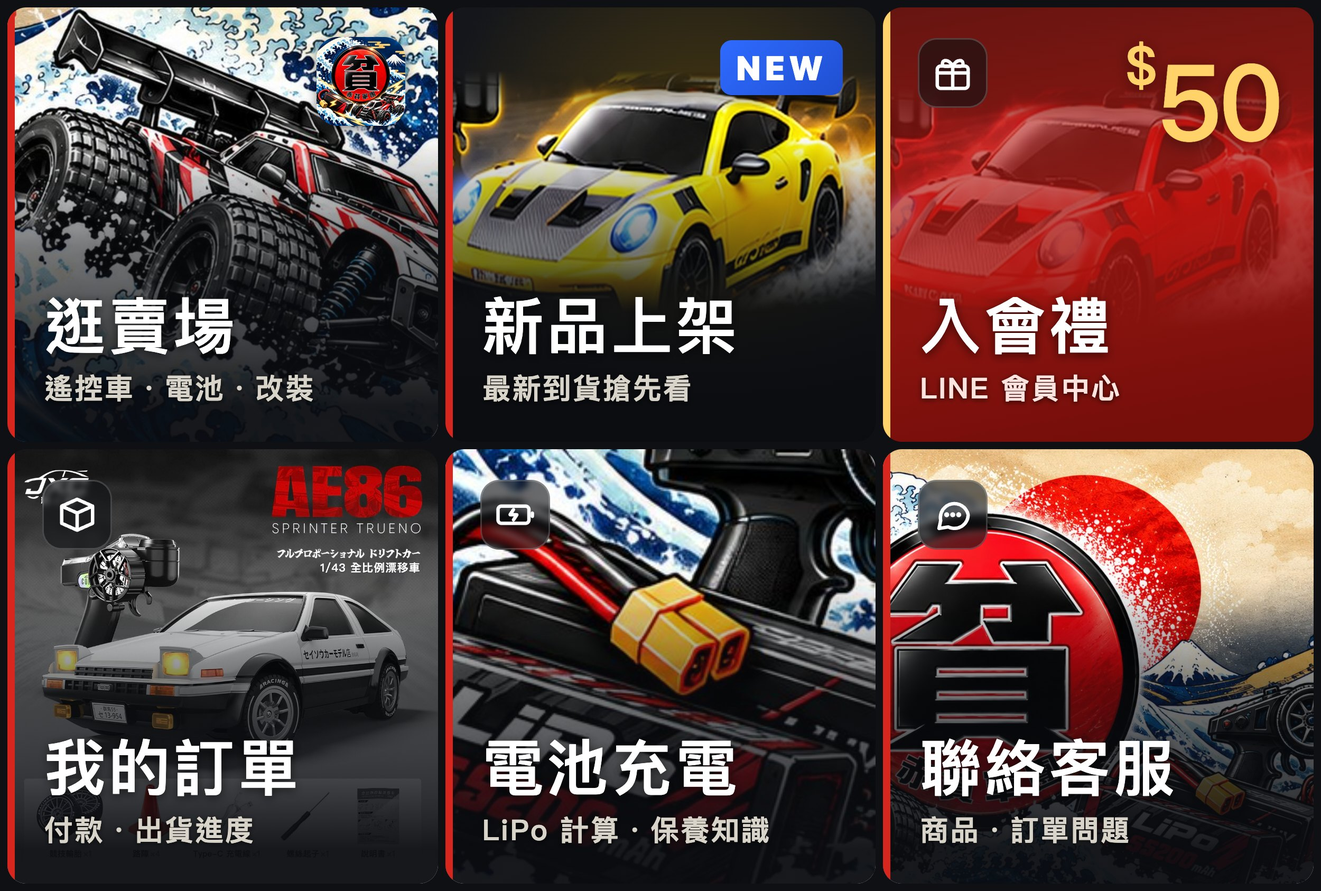
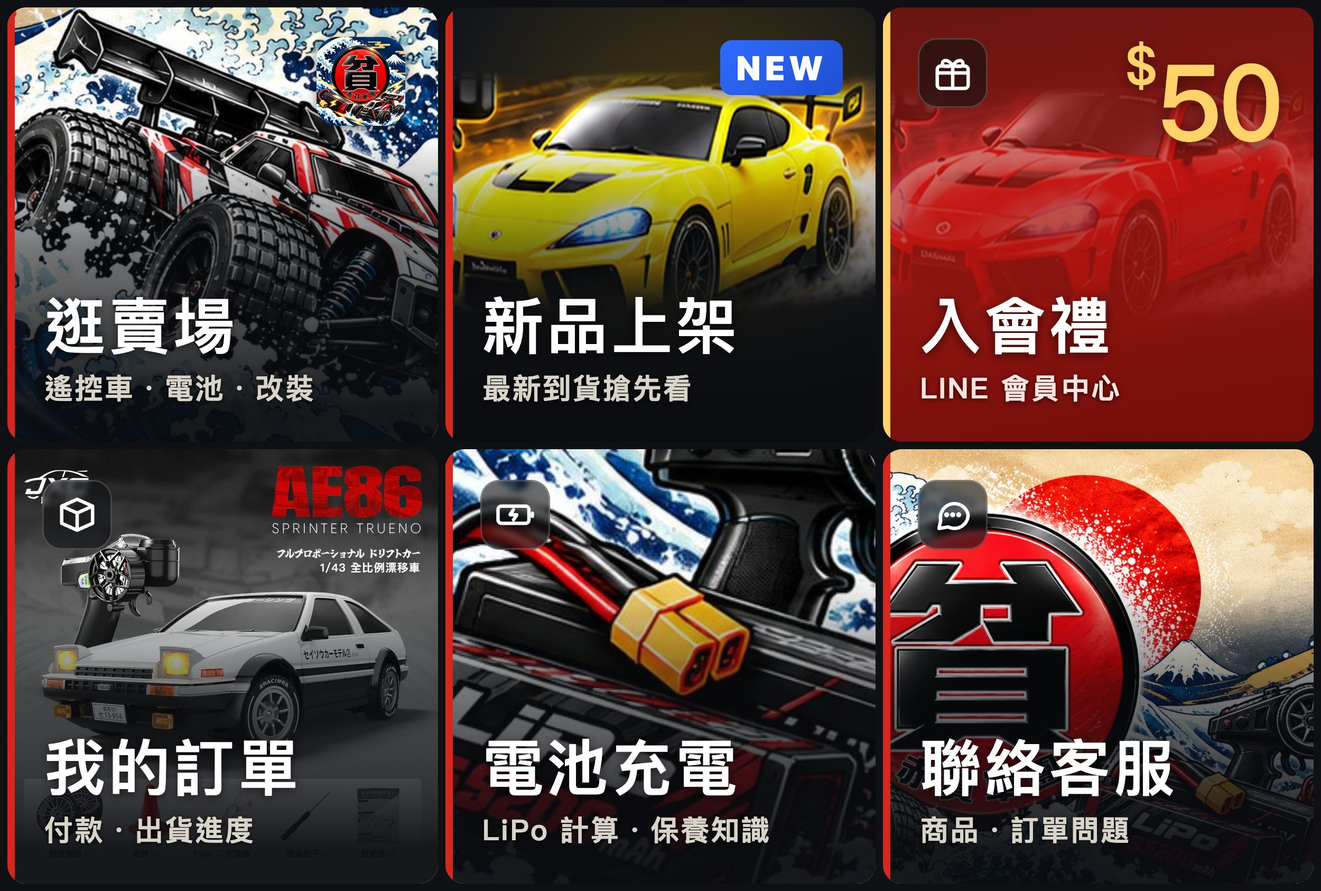
只賣五款：系列封面、LINE 選單與歡迎圖換 Supra

Changed region(s): [[0.3432, 0.0617, 0.9984, 0.3393]]

diff --git a/shop.html b/shop.html
@@ -4,7 +4,7 @@
 <meta charset="utf-8">
 <meta http-equiv="Content-Security-Policy" content="default-src 'self'; style-src 'self' 'unsafe-inline'; img-src 'self' data: https://profile.line-scdn.net https://qr-official.line.me https://lh3.googleusercontent.com https://i.ytimg.com https://drive.google.com; media-src 'self' https://drive.usercontent.google.com; connect-src 'self' https://script.google.com https://script.googleusercontent.com; frame-src https://www.youtube.com https://drive.google.com https://www.instagram.com; object-src 'none'; base-uri 'self'; form-action 'self' https://payment.ecpay.com.tw https://payment-stage.ecpay.com.tw https://emap.presco.com.tw https://access.line.me https://logistics.ecpay.com.tw https://logistics-stage.ecpay.com.tw; script-src 'self' 'sha256-8E+vpluJNjWrDSG2st2jTdNo39jw8D/AzDJAvF5fO4I=' 'sha256-5U/5zV84P3UxVC/owxDV7vudVfiqSUxly1zC4axYmJ8='">
 <meta name="referrer" content="strict-origin-when-cross-origin">
-<meta name="build" content="202611092313">
+<meta name="build" content="202611092322">
 <script>
 // 從 LINE 開啟且未登入：在載入任何東西之前就直接跳 LINE 登入（使用者 11-08：從官方 LINE 點進來登入要等）。與 shop.html 下方 lineAuthUrl 同一套參數。
 (function(){try{
@@ -597,9 +597,9 @@ body.locked{position:fixed;left:0;right:0;width:100%;overflow:hidden}
 <!-- 影片 -->
 <div class="sheet" id="vSheet" role="dialog" aria-modal="true"><div class="panel" id="vPanel"></div></div>
 
-<script src="track.js?v=202611092313"></script>
-<script src="shop-core.js?v=202611092313"></script>
-<script src="tw-zip.js?v=202611092313"></script>
+<script src="track.js?v=202611092322"></script>
+<script src="shop-core.js?v=202611092322"></script>
+<script src="tw-zip.js?v=202611092322"></script>
 <script>
 const $ = id => document.getElementById(id);
 const ICON = {

diff --git a/admin.html b/admin.html
@@ -4,7 +4,7 @@
 <meta charset="utf-8">
 <meta http-equiv="Content-Security-Policy" content="default-src 'self'; style-src 'self' 'unsafe-inline'; img-src 'self' data: https://profile.line-scdn.net https://qr-official.line.me https://lh3.googleusercontent.com https://i.ytimg.com https://drive.google.com; media-src 'self' https://drive.usercontent.google.com; connect-src 'self' https://script.google.com https://script.googleusercontent.com; frame-src https://www.youtube.com https://drive.google.com https://www.instagram.com; object-src 'none'; base-uri 'self'; form-action 'self' https://payment.ecpay.com.tw https://payment-stage.ecpay.com.tw https://emap.presco.com.tw https://access.line.me https://logistics.ecpay.com.tw https://logistics-stage.ecpay.com.tw; script-src 'self' 'sha256-HsVOFZAomdrfym+uiI9Jyn1p4aPjnGSd3eY3G2aUMG4='">
 <meta name="referrer" content="strict-origin-when-cross-origin">
-<meta name="build" content="202611092313">
+<meta name="build" content="202611092322">
 <meta name="viewport" content="width=device-width, initial-scale=1, maximum-scale=1, viewport-fit=cover">
 <meta name="robots" content="noindex">
 <title>赤貧軍團｜管理後台</title>
@@ -262,7 +262,7 @@ details.fold[open] summary i{color:var(--faint)}
 <div class="toast" id="toast"></div>
 <input type="file" id="fileIn" hidden>
 
-<script src="shop-core.js?v=202611092313"></script>
+<script src="shop-core.js?v=202611092322"></script>
 <script>
 const $ = id => document.getElementById(id);
 // 登入存在 localStorage，10 天內同一台裝置不用重新登入（到期由後端判斷）

diff --git a/index.html b/index.html
@@ -4,7 +4,7 @@
 <meta charset="utf-8">
 <meta http-equiv="Content-Security-Policy" content="default-src 'self'; style-src 'self' 'unsafe-inline'; img-src 'self' data: https://profile.line-scdn.net https://qr-official.line.me https://lh3.googleusercontent.com https://i.ytimg.com https://drive.google.com; media-src 'self' https://drive.usercontent.google.com; connect-src 'self' https://script.google.com https://script.googleusercontent.com; frame-src https://www.youtube.com https://drive.google.com https://www.instagram.com; object-src 'none'; base-uri 'self'; form-action 'self' https://payment.ecpay.com.tw https://payment-stage.ecpay.com.tw https://emap.presco.com.tw https://access.line.me https://logistics.ecpay.com.tw https://logistics-stage.ecpay.com.tw; script-src 'self' 'sha256-0kVSUvX6dFHG8DOjnwGus+U8xnITvepikoDM9QnjxnU='">
 <meta name="referrer" content="strict-origin-when-cross-origin">
-<meta name="build" content="202611092313">
+<meta name="build" content="202611092322">
 <meta name="viewport" content="width=device-width, initial-scale=1, maximum-scale=1, viewport-fit=cover">
 <title>赤貧軍團｜RC 鋰電池充電</title>
 <meta name="description" content="鋰電池充電計算、電壓對照、保養與安全知識。">
@@ -725,6 +725,6 @@ syncNav();
   } catch (e) {}
 })();
 </script>
-<script src="track.js?v=202611092313"></script>
+<script src="track.js?v=202611092322"></script>
 </body>
 </html>
